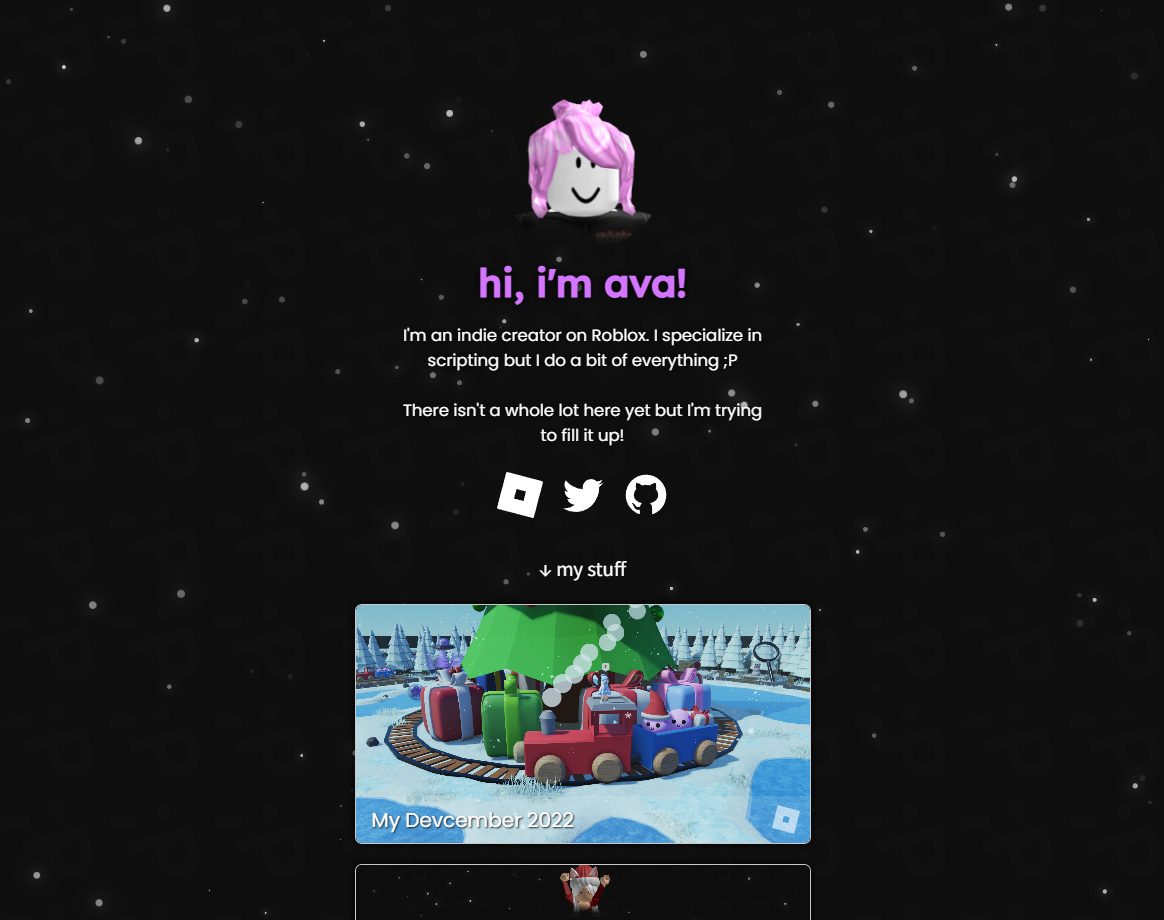
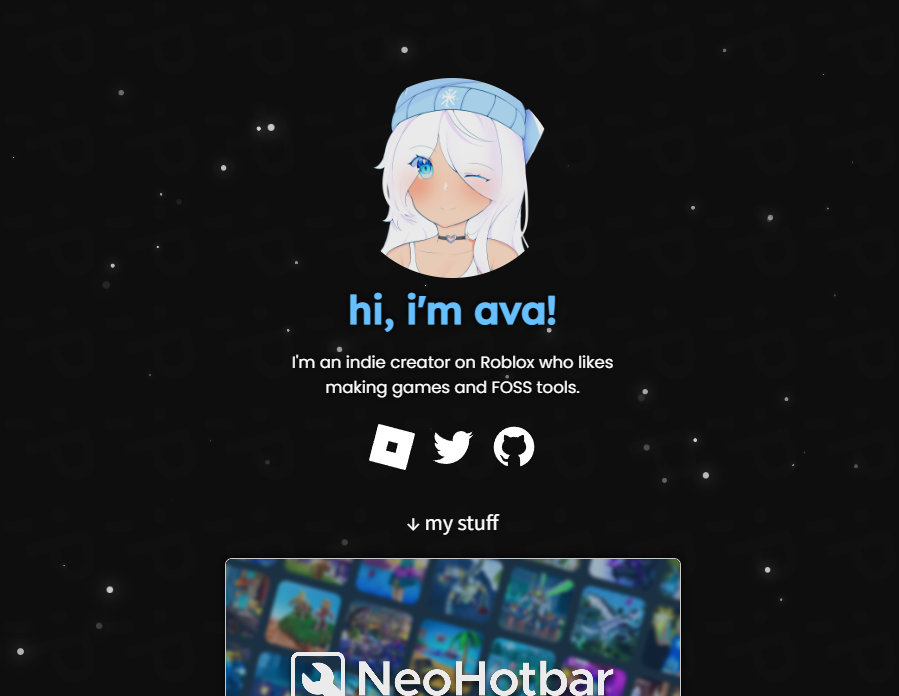
general update

diff --git a/index.html b/index.html
@@ -5,13 +5,14 @@
         <meta http-equiv="X-UA-Compatible" content="IE=edge">
         <meta name="viewport" content="width=device-width, initial-scale=1.0">
 
-        <title>Avafe's Website!</title>
+        <title>Avafe</title>
         <link rel="icon" href="/Assets/PFP.png">
 
-        <meta property="og:title" content="Avafe's Website!"/>
-        <meta property="og:description" content="I'm an indie creator on Roblox and this is my personal website!"/>
+        <meta name="description" content="I'm an indie creator on Roblox who likes making games and FOSS tools.">
+
+        <meta property="og:title" content="Avafe's Website"/>
+        <meta property="og:description" content="I'm an indie creator on Roblox who likes making games and FOSS tools."/>
         <meta property="og:url" content="https://avafe.me"/>
-        <!-- <meta property="og:image" content="/Assets/MyKitty.jpeg"/> -->
         <meta name="theme-color" content="#66bfff" data-react-helmet="true"/>
 
         <meta name="darkreader-lock">
@@ -45,13 +46,13 @@
             <img id="pfp" src="/Assets/PFP.png"></img>
             <div class="intro">
                 <h1 id="title">hi, i'm ava!</h1>
-                <p class="mydesc">I'm an indie creator on Roblox who does a bit of everything ;P<br>
-                <br>There isn't a whole lot here yet but I'm trying to fill it up!</p>
+                <p>I'm an indie creator on Roblox who likes making games and FOSS tools.</p>
+                <p></p>
                 <div class="socials">
                     <a href="https://www.roblox.com/users/144146784" target="_blank"><svg><use xlink:href="#icon-roblox"></svg></a>
                     <a href="https://www.twitter.com/AvafeIsMe" target="_blank"><svg><use xlink:href="#icon-twitter"></svg></a>
                     <a href="https://www.github.com/ImAvafe" target="_blank"><svg><use xlink:href="#icon-github"></svg></a>
-                    <a href="javascript:alert('ImAvafe#5384');"><svg><use xlink:href="#icon-discord"></svg></a>
+                    <!-- <a href="javascript:alert('ImAvafe#5384');"><svg><use xlink:href="#icon-discord"></svg></a> -->
                 </div>
             </div>
             <div id="showcase">
